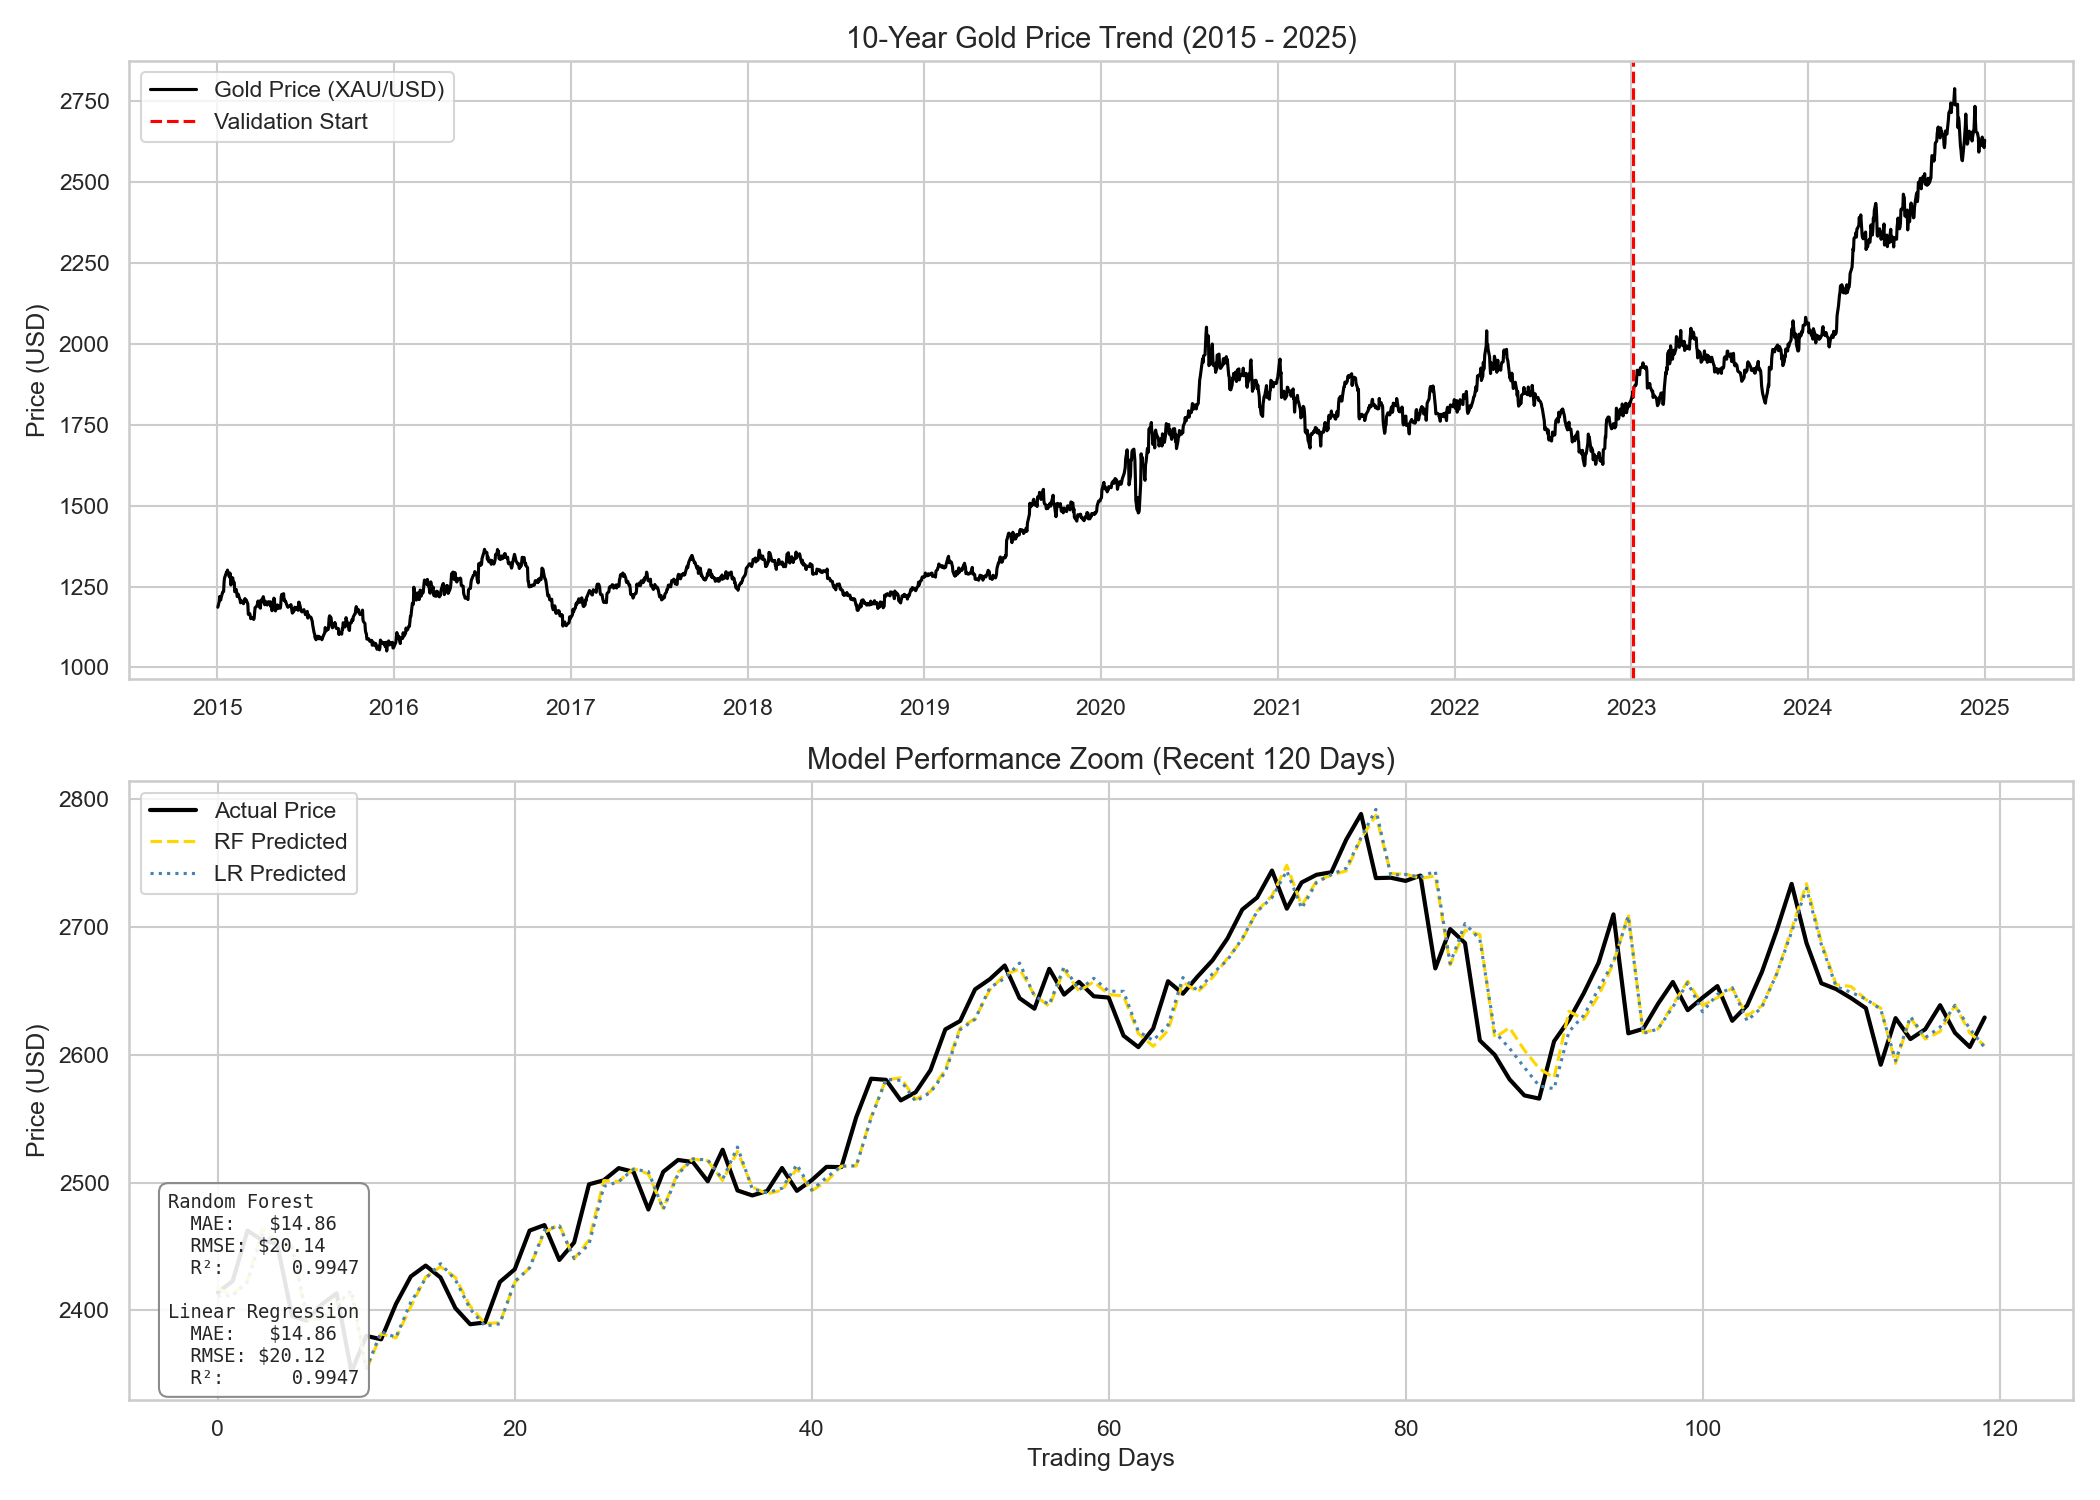
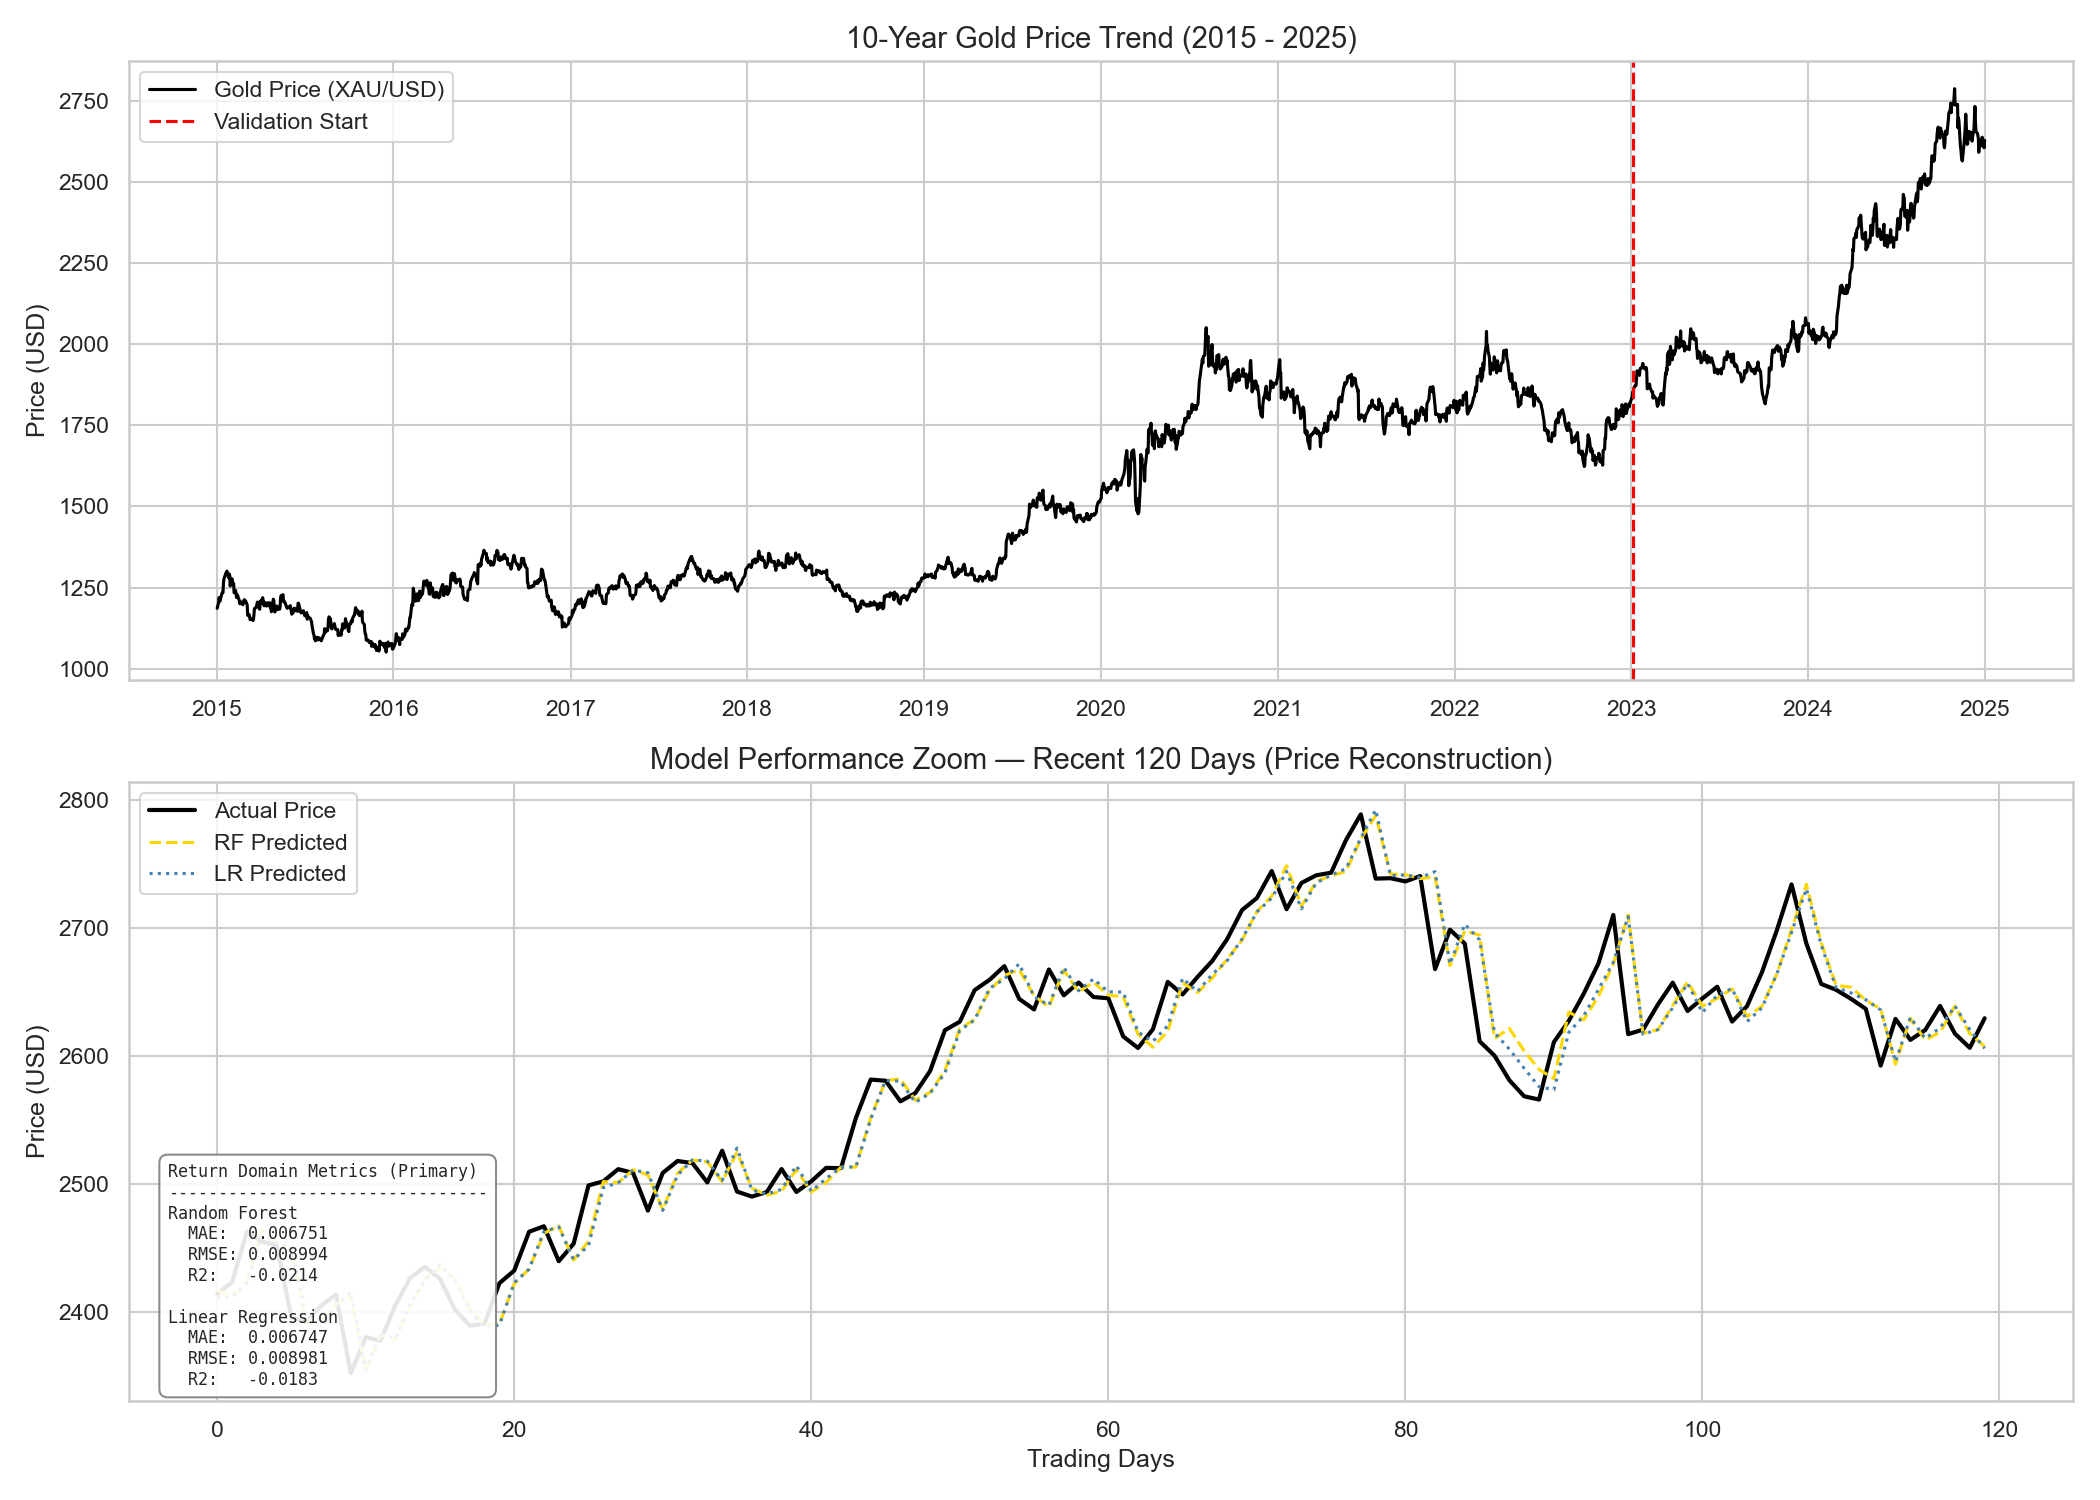
refactor: Add dual evaluation to separate return domain from price domain metrics
- Add primary return-domain evaluation (MAE, RMSE, R2 on log returns)
- Add secondary price-domain evaluation with persistence bias warning
- Update metrics text box on chart to display return-domain metrics only
- Document Price R2 mirage and backtest hero problem in report
- Frame near-zero R2 as expected Efficient Market result not model failure
- Add Fama (1970) EMH reference to report

diff --git a/compsci/gold_preds/src/__init__.py b/compsci/gold_preds/src/__init__.py
@@ -27,8 +27,8 @@ def run():
 
     # RSI
     delta = df['Close'].diff()
-    gain = (delta.where(delta > 0, 0)).rolling(window=14).mean()
-    loss = (-delta.where(delta < 0, 0)).rolling(window=14).mean()
+    gain  = (delta.where(delta > 0, 0)).rolling(window=14).mean()
+    loss  = (-delta.where(delta < 0, 0)).rolling(window=14).mean()
     df['RSI_14'] = 100 - (100 / (1 + (gain / (loss + 1e-9))))
 
     # MACD
@@ -38,35 +38,33 @@ def run():
 
     # Bollinger Band Width and Volatility
     df['BB_Width'] = (4 * df['Close'].rolling(window=20).std()) / df['Close'].rolling(window=20).mean()
-    df['Vol_10'] = df['Log_Return'].rolling(window=10).std()
+    df['Vol_10']   = df['Log_Return'].rolling(window=10).std()
 
-    # Target
+    # Target — next day log return
     df['Target'] = df['Log_Return'].shift(-1)
 
-    # Store full history before dropping rows
+    # Store full price history for visualization
     full_history = df['Close'].copy()
 
     df.dropna(inplace=True)
 
     # ── Drop raw OHLCV to prevent leakage ───────────────────
-    df.drop(columns=['Open', 'High', 'Low', 'Volume'], inplace=True)
-
     close_prices = df['Close']
+    df.drop(columns=['Open', 'High', 'Low', 'Volume', 'Close'], inplace=True)
 
     # ── Section 3: Train/Test Split & Scaling ───────────────
-    features = [col for col in df.columns if col not in ['Target', 'Close']]
+    features = [col for col in df.columns if col != 'Target']
 
     X, y = df[features], df['Target']
 
-    split_idx = int(len(df) * 0.80)
-
+    split_idx   = int(len(df) * 0.80)
     X_train, X_test = X.iloc[:split_idx], X.iloc[split_idx:]
     y_train, y_test = y.iloc[:split_idx], y.iloc[split_idx:]
-    prices_test = close_prices.iloc[split_idx:]
+    prices_test     = close_prices.iloc[split_idx:]
 
-    scaler = RobustScaler()
+    scaler    = RobustScaler()
     X_train_s = scaler.fit_transform(X_train)
-    X_test_s = scaler.transform(X_test)
+    X_test_s  = scaler.transform(X_test)
 
     print(f"Training samples: {len(X_train)}")
     print(f"Testing samples:  {len(X_test)}")
@@ -80,24 +78,45 @@ def run():
     lr.fit(X_train_s, y_train)
     lr_ret_preds = lr.predict(X_test_s)
 
-    # ── Section 5: Price Reconstruction & Metrics ──────────
-    rf_price_preds = prices_test.values * np.exp(rf_ret_preds)
-    lr_price_preds = prices_test.values * np.exp(lr_ret_preds)
-    actual_prices = prices_test.values * np.exp(y_test.values)
+    # ── Section 5: Dual Evaluation ──────────────────────────
+    # PRIMARY: Return-domain metrics (honest evaluation)
+    # Log return predictions are evaluated directly against actual log returns.
+    # R2 near zero or negative is the expected Efficient Market result for
+    # daily gold returns and does NOT indicate model failure.
 
-    # Calculate metrics and store them
-    metrics = {}
+    return_metrics = {}
+    print(f"\n--- PRIMARY EVALUATION: Return Domain (Honest) ---")
+    print(f"{'Model':<20} | {'MAE':<12} | {'RMSE':<12} | {'R2 Score':<10}")
+    print("-" * 65)
+    for name, ret_pred in [("Random Forest", rf_ret_preds), ("Linear Regression", lr_ret_preds)]:
+        mae  = mean_absolute_error(y_test, ret_pred)
+        rmse = np.sqrt(mean_squared_error(y_test, ret_pred))
+        r2   = r2_score(y_test, ret_pred)
+        return_metrics[name] = {'MAE': mae, 'RMSE': rmse, 'R2': r2}
+        print(f"{name:<20} | {mae:<12.6f} | {rmse:<12.6f} | {r2:<10.4f}")
+
+    # SECONDARY: Price-domain metrics (visualization context only)
+    # WARNING: Price R2 is inflated by persistence bias. Because daily returns
+    # are tiny (~0.5%), multiplying today's price by exp(return) produces a
+    # prediction nearly identical to today's price regardless of model quality.
+    # The price variance "swallows" the model's return prediction errors.
+    # Use price metrics for chart context only — NOT as primary evaluation.
+
+    price_metrics = {}
+    rf_price_preds  = prices_test.values * np.exp(rf_ret_preds)
+    lr_price_preds  = prices_test.values * np.exp(lr_ret_preds)
+    actual_prices   = prices_test.values * np.exp(y_test.values)
+
+    print(f"\n--- SECONDARY EVALUATION: Price Domain (Visualization Context Only) ---")
+    print(f"NOTE: Price R2 is inflated by persistence bias. See return metrics above.")
+    print(f"{'Model':<20} | {'MAE (USD)':<12} | {'RMSE (USD)':<12} | {'R2 Score':<10}")
+    print("-" * 65)
     for name, pred in [("Random Forest", rf_price_preds), ("Linear Regression", lr_price_preds)]:
-        mae = mean_absolute_error(actual_prices, pred)
+        mae  = mean_absolute_error(actual_prices, pred)
         rmse = np.sqrt(mean_squared_error(actual_prices, pred))
-        r2 = r2_score(actual_prices, pred)
-        metrics[name] = {'MAE': mae, 'RMSE': rmse, 'R2': r2}
-
-    print(f"\n{'Model':<20} | {'MAE':<10} | {'RMSE':<10} | {'R² Score':<10}")
-    print("-" * 60)
-
-    for name, m in metrics.items():
-        print(f"{name:<20} | ${m['MAE']:>8.2f} | ${m['RMSE']:>8.2f} | {m['R2']:>9.4f}")
+        r2   = r2_score(actual_prices, pred)
+        price_metrics[name] = {'MAE': mae, 'RMSE': rmse, 'R2': r2}
+        print(f"{name:<20} | ${mae:<11.2f} | ${rmse:<11.2f} | {r2:<10.4f}")
 
     # ── Section 6: Visualization ────────────────────────────
     sns.set_theme(style="whitegrid")
@@ -111,36 +130,34 @@ def run():
     ax1.yaxis.set_major_formatter(ticker.FormatStrFormatter('%d'))
     ax1.legend()
 
-    # Plot 2: 120-Day Zoom with Metrics
+    # Plot 2: 120-Day Zoom
     zoom = -120
-    ax2.plot(actual_prices[zoom:], label='Actual Price', color='black', linewidth=2)
-    ax2.plot(rf_price_preds[zoom:], label='RF Predicted', color='gold', linestyle='--')
-    ax2.plot(lr_price_preds[zoom:], label='LR Predicted', color='steelblue', linestyle=':')
-    ax2.set_title('Model Performance Zoom (Recent 120 Days)', fontsize=14)
+    ax2.plot(actual_prices[zoom:],   label='Actual Price', color='black',     linewidth=2)
+    ax2.plot(rf_price_preds[zoom:],  label='RF Predicted', color='gold',      linestyle='--')
+    ax2.plot(lr_price_preds[zoom:],  label='LR Predicted', color='steelblue', linestyle=':')
+    ax2.set_title('Model Performance Zoom — Recent 120 Days (Price Reconstruction)', fontsize=14)
     ax2.set_ylabel('Price (USD)')
     ax2.set_xlabel('Trading Days')
     ax2.yaxis.set_major_formatter(ticker.FormatStrFormatter('%d'))
     ax2.legend(loc='upper left')
 
-    # Add metrics text box - FIXED formatting
-    rf_m = metrics['Random Forest']
-    lr_m = metrics['Linear Regression']
-
+    # Metrics text box — return domain only
+    rf_r  = return_metrics['Random Forest']
+    lr_r  = return_metrics['Linear Regression']
     metrics_text = (
+        f"Return Domain Metrics (Primary)\n"
+        f"--------------------------------\n"
         f"Random Forest\n"
-        f"  MAE:   ${rf_m['MAE']:.2f}\n"
-        f"  RMSE: ${rf_m['RMSE']:.2f}\n"
-        f"  R²:      {rf_m['R2']:.4f}\n"
-        f"\n"
+        f"  MAE:  {rf_r['MAE']:.6f}\n"
+        f"  RMSE: {rf_r['RMSE']:.6f}\n"
+        f"  R2:   {rf_r['R2']:.4f}\n\n"
         f"Linear Regression\n"
-        f"  MAE:   ${lr_m['MAE']:.2f}\n"
-        f"  RMSE: ${lr_m['RMSE']:.2f}\n"
-        f"  R²:      {lr_m['R2']:.4f}"
+        f"  MAE:  {lr_r['MAE']:.6f}\n"
+        f"  RMSE: {lr_r['RMSE']:.6f}\n"
+        f"  R2:   {lr_r['R2']:.4f}"
     )
-
-    # Position the text box in the lower left of the bottom plot (away from data)
     props = dict(boxstyle='round,pad=0.5', facecolor='white', edgecolor='gray', alpha=0.9)
-    ax2.text(0.02, 0.02, metrics_text, transform=ax2.transAxes, fontsize=9,
+    ax2.text(0.02, 0.02, metrics_text, transform=ax2.transAxes, fontsize=8,
              verticalalignment='bottom', horizontalalignment='left',
              bbox=props, fontfamily='monospace')
 
@@ -150,7 +167,7 @@ def run():
 
     # ── Section 7: Feature Importance ───────────────────────
     importances = rf.feature_importances_
-    feat_names = X.columns.tolist()
+    feat_names  = X.columns.tolist()
 
     feat_df = pd.DataFrame({'Feature': feat_names, 'Importance': importances})
     feat_df = feat_df.sort_values('Importance', ascending=False).head(10)
